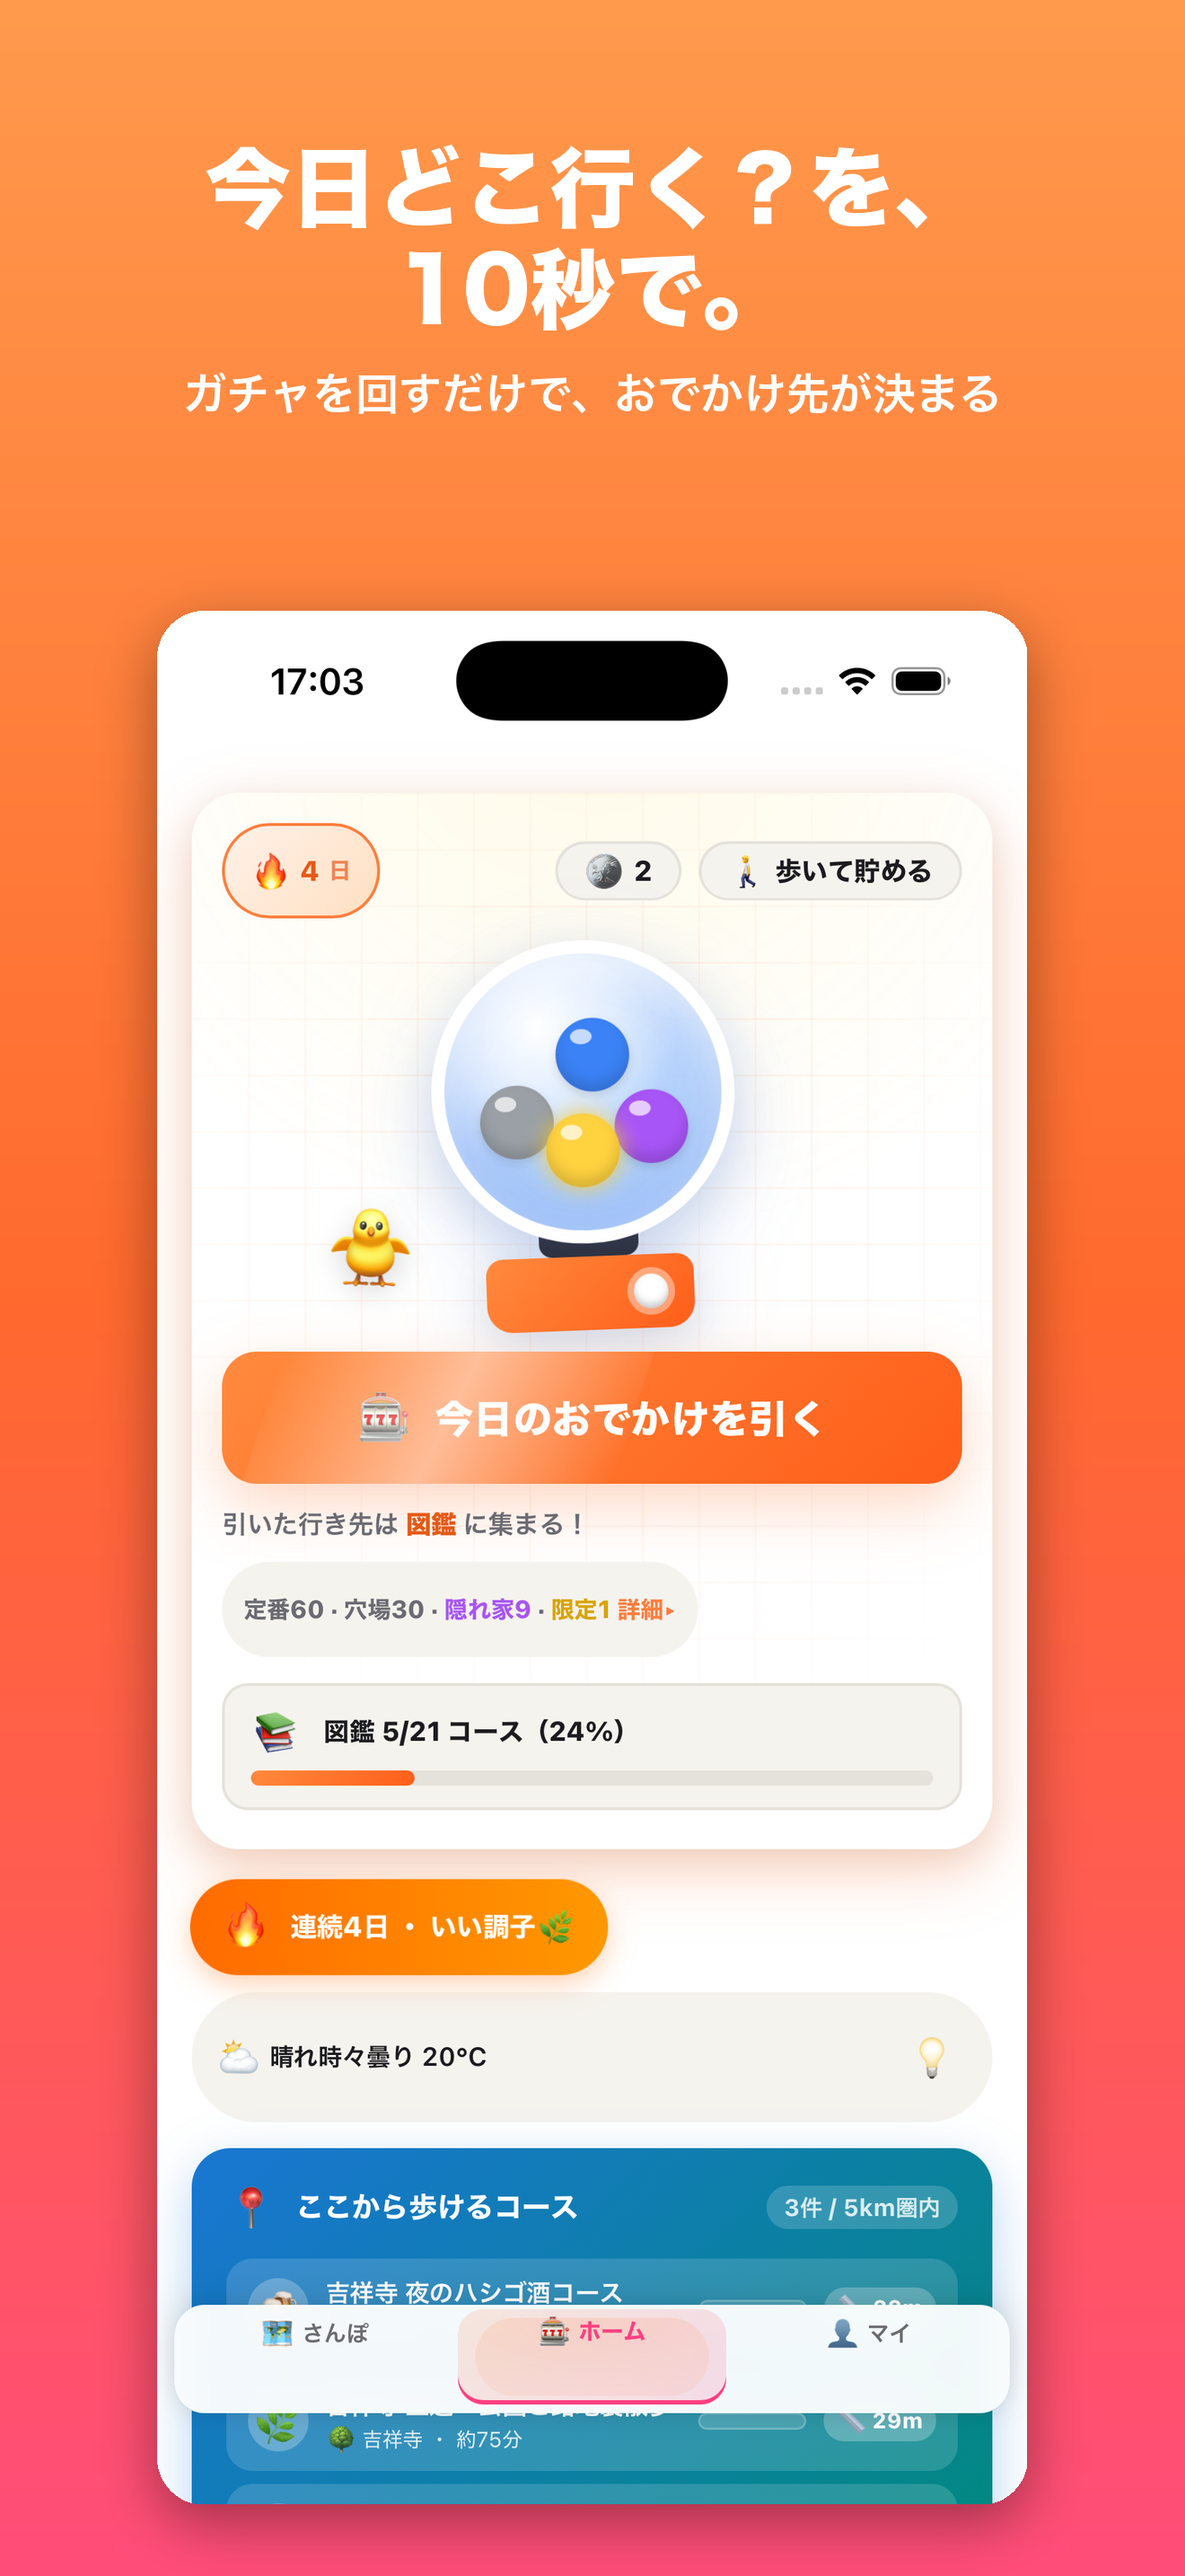
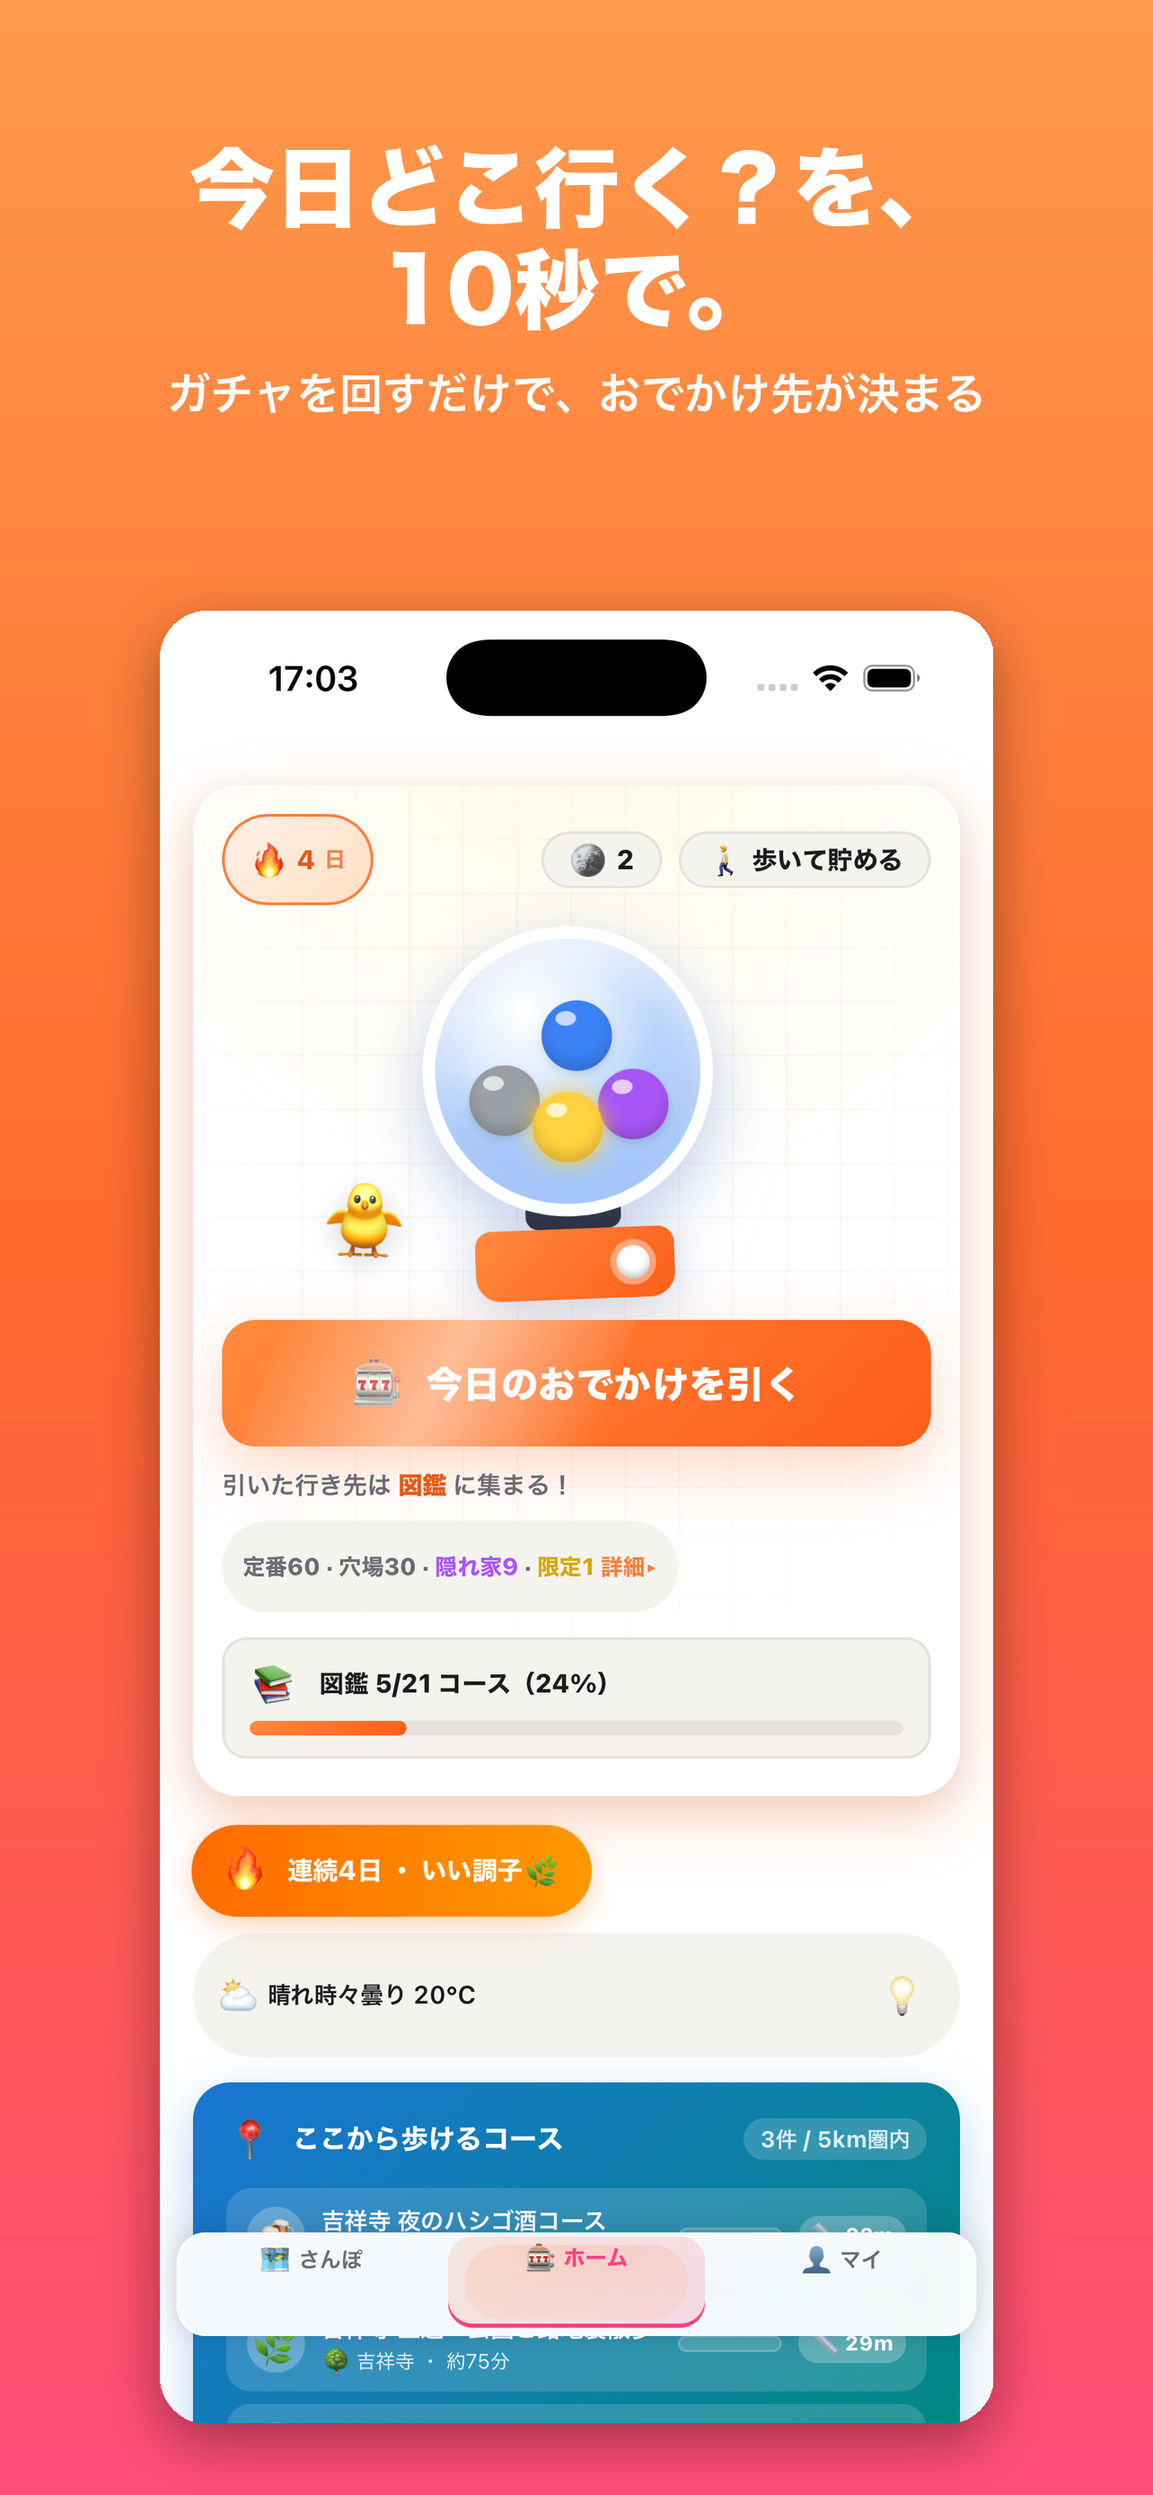
審査提出: 公開準備の仕上げ（プライバシーページ公開 + スクショASC API投入）
- privacy.html 新規 + Dockerfile に追加 → Cloud Run(yorimichi-map/restaurant-call-ai)
  にデプロイ済。https://yorimichi.in-dx.jp/privacy.html で公開(App Privacy URL)
- .gcloudignore 追加(デプロイ軽量化)
- upload_screenshots_asc.py: ASC API直アップロード(ブラウザfile upload制約を回避)
- スクショ6.5"(1284x2778)再生成しASC API経由で5枚アップロード
- 街歩きガチャ iOS 1.0 を App Store 審査に提出完了(App ID 6782575046・審査待ち)

diff --git a/privacy.html b/privacy.html
@@ -1,0 +1,67 @@
+<!DOCTYPE html>
+<html lang="ja">
+<head>
+<meta charset="UTF-8">
+<meta name="viewport" content="width=device-width, initial-scale=1">
+<meta name="robots" content="index,follow">
+<title>プライバシーポリシー｜街歩きガチャ</title>
+<style>
+  :root{ --brand:#ff7e3d; --ink:#1d2129; --muted:#6b7280; --line:#ececec; }
+  *{box-sizing:border-box}
+  body{margin:0;font-family:-apple-system,BlinkMacSystemFont,"Hiragino Kaku Gothic ProN","Hiragino Sans","Noto Sans JP",sans-serif;color:var(--ink);line-height:1.85;background:#fff;}
+  .wrap{max-width:720px;margin:0 auto;padding:32px 20px 80px;}
+  header{border-bottom:3px solid var(--brand);padding-bottom:14px;margin-bottom:8px;}
+  h1{font-size:24px;margin:0 0 4px;}
+  .app{color:var(--brand);font-weight:700;}
+  .upd{color:var(--muted);font-size:13px;margin:0 0 24px;}
+  h2{font-size:17px;margin:30px 0 8px;padding-left:10px;border-left:4px solid var(--brand);}
+  p{margin:8px 0;}
+  ul{margin:8px 0;padding-left:1.2em;}
+  li{margin:4px 0;}
+  a{color:var(--brand);}
+  .note{background:#fff7f2;border:1px solid #ffe0cc;border-radius:10px;padding:12px 14px;font-size:14px;color:#7a4a2a;}
+  footer{margin-top:48px;border-top:1px solid var(--line);padding-top:16px;color:var(--muted);font-size:13px;}
+</style>
+</head>
+<body>
+<div class="wrap">
+  <header>
+    <h1>プライバシーポリシー</h1>
+    <div class="app">街歩きガチャ</div>
+  </header>
+  <p class="upd">最終更新：2026年6月21日</p>
+
+  <p>インデックス（飲DX、以下「当社」）は、アプリ「街歩きガチャ」（以下「本アプリ」）における利用者情報の取り扱いについて、以下のとおり定めます。本アプリは<strong>アカウント登録不要</strong>で利用でき、<strong>広告目的の利用、第三者へのデータ販売、クロスアプリのトラッキングは一切行いません。</strong></p>
+
+  <h2>1. 端末内のみで保存する情報</h2>
+  <p>発見コース・完走コース・連続ログイン日数・ガチャ回数・コイン残高などは、お客様の端末内（localStorage）に保存されます。</p>
+
+  <h2>2. 当社サーバーへ送信する情報</h2>
+  <p>機能提供のため、当社サーバー（Google Cloud／日本リージョン）へ次を送信します。</p>
+  <ul>
+    <li><strong>位置情報（GPS座標）</strong>：スポット到着判定、地図・ルート表示、コース解説の生成</li>
+    <li><strong>写真</strong>：お客様が撮影・選択した写真を、AIによる説明文生成のために送信（任意操作時のみ）</li>
+    <li><strong>匿名の利用者ID（端末ごとのランダムなID）</strong>：データ同期・不具合解析。氏名等の個人情報とは結び付けません</li>
+    <li><strong>利用状況・診断情報</strong>：起動・主要操作・エラー内容（品質改善）</li>
+    <li><strong>投稿内容</strong>：スポット投稿・報告・コース評価など、任意で送信されたもの</li>
+  </ul>
+
+  <h2>3. 外部サービスへの送信</h2>
+  <p>地図・経路・住所表示のため、位置座標を OpenStreetMap（地図タイル）、OSRM（ルート計算）、Nominatim（住所検索）へ送信します。各社のプライバシーポリシーが適用されます。</p>
+
+  <h2>4. クッキー</h2>
+  <p>クッキーは使用しません（localStorage と Service Worker キャッシュのみ）。</p>
+
+  <h2>5. データの削除</h2>
+  <p>サーバー上のデータ削除をご希望の場合は下記までご連絡ください。アプリ内データは iOS の「設定 &gt; アプリを削除」または端末データのクリアで削除できます。</p>
+
+  <h2>6. お問い合わせ</h2>
+  <p>インデックス（飲DX）　メール：<a href="mailto:info@in-dx.jp">info@in-dx.jp</a></p>
+
+  <h2>7. 改定</h2>
+  <p>本ポリシーは必要に応じて改定します。重要な変更はアプリ内またはウェブサイトで告知します。</p>
+
+  <footer>© 2026 インデックス（飲DX）／ <a href="https://yorimichi.in-dx.jp">街歩きガチャ</a></footer>
+</div>
+</body>
+</html>

diff --git a/ios-app/docs/app-store/upload_screenshots_asc.py b/ios-app/docs/app-store/upload_screenshots_asc.py
@@ -1,0 +1,87 @@
+#!/usr/bin/env python3
+"""App Store Connect API でスクショを直接アップロード（ブラウザのファイルUL制約を回避）。
+実行: ~/projects/yorimichi-map/.venv-shots/bin/python upload_screenshots_asc.py
+"""
+import time, json, hashlib, os, sys, glob
+import jwt, requests
+
+KEY_ID = "XZ54R7ZQ99"
+ISSUER = "70cefba7-13f2-453a-907b-cb645079e635"
+P8 = os.path.expanduser("~/.appstoreconnect/private_keys/AuthKey_XZ54R7ZQ99.p8")
+APP_ID = "6782575046"
+DISPLAY = "APP_IPHONE_65"   # 1284x2778 / 1242x2688 = 6.5"
+SHOTS = sorted(glob.glob(os.path.expanduser("~/projects/yorimichi-map/ios-app/docs/app-store/screenshots/appstore-6.9/0*.png")))
+BASE = "https://api.appstoreconnect.apple.com"
+
+def token():
+    with open(P8) as f:
+        key = f.read()
+    payload = {"iss": ISSUER, "iat": int(time.time()), "exp": int(time.time()) + 1000, "aud": "appstoreconnect-v1"}
+    return jwt.encode(payload, key, algorithm="ES256", headers={"kid": KEY_ID, "typ": "JWT"})
+
+H = {"Authorization": f"Bearer {token()}", "Content-Type": "application/json"}
+
+def get(url, **params):
+    r = requests.get(url if url.startswith("http") else BASE + url, headers=H, params=params or None)
+    r.raise_for_status(); return r.json()
+
+def post(path, body):
+    r = requests.post(BASE + path, headers=H, data=json.dumps(body))
+    if r.status_code >= 300: print("POST FAIL", path, r.status_code, r.text); r.raise_for_status()
+    return r.json()
+
+def patch(path, body):
+    r = requests.patch(BASE + path, headers=H, data=json.dumps(body))
+    if r.status_code >= 300: print("PATCH FAIL", path, r.status_code, r.text); r.raise_for_status()
+    return r.json() if r.text else {}
+
+# 1. editable iOS version
+vers = get(f"/v1/apps/{APP_ID}/appStoreVersions", **{"filter[platform]": "IOS"})
+ver = vers["data"][0]
+ver_id = ver["id"]
+print("version", ver["attributes"]["versionString"], ver["attributes"]["appStoreState"], ver_id)
+
+# 2. localization ja
+locs = get(f"/v1/appStoreVersions/{ver_id}/appStoreVersionLocalizations")
+loc = next(l for l in locs["data"] if l["attributes"]["locale"].startswith("ja"))
+loc_id = loc["id"]; print("locale", loc["attributes"]["locale"], loc_id)
+
+# 3. screenshot set (find or create)
+sets = get(f"/v1/appStoreVersionLocalizations/{loc_id}/appScreenshotSets")
+sset = next((s for s in sets["data"] if s["attributes"]["screenshotDisplayType"] == DISPLAY), None)
+if sset:
+    set_id = sset["id"]; print("existing set", set_id)
+else:
+    body = {"data": {"type": "appScreenshotSets",
+        "attributes": {"screenshotDisplayType": DISPLAY},
+        "relationships": {"appStoreVersionLocalization": {"data": {"type": "appStoreVersionLocalizations", "id": loc_id}}}}}
+    set_id = post("/v1/appScreenshotSets", body)["data"]["id"]; print("created set", set_id)
+
+uploaded_ids = []
+for path in SHOTS:
+    data = open(path, "rb").read()
+    name = os.path.basename(path)
+    # reserve
+    body = {"data": {"type": "appScreenshots",
+        "attributes": {"fileSize": len(data), "fileName": name},
+        "relationships": {"appScreenshotSet": {"data": {"type": "appScreenshotSets", "id": set_id}}}}}
+    res = post("/v1/appScreenshots", body)["data"]
+    sid = res["id"]
+    ops = res["attributes"]["uploadOperations"]
+    for op in ops:
+        hdrs = {h["name"]: h["value"] for h in op["requestHeaders"]}
+        chunk = data[op["offset"]:op["offset"] + op["length"]]
+        pr = requests.request(op["method"], op["url"], headers=hdrs, data=chunk)
+        pr.raise_for_status()
+    # commit
+    md5 = hashlib.md5(data).hexdigest()
+    patch(f"/v1/appScreenshots/{sid}", {"data": {"type": "appScreenshots", "id": sid,
+        "attributes": {"uploaded": True, "sourceFileChecksum": md5}}})
+    uploaded_ids.append(sid)
+    print("uploaded", name, sid)
+
+# 4. set display order
+order = {"data": [{"type": "appScreenshots", "id": i} for i in uploaded_ids]}
+patch(f"/v1/appScreenshotSets/{set_id}/relationships/appScreenshots", order)
+print("ordered", len(uploaded_ids), "screenshots -> set", set_id)
+print("DONE")

diff --git a/ios-app/docs/app-store/make_appstore_screenshots.py b/ios-app/docs/app-store/make_appstore_screenshots.py
@@ -13,7 +13,7 @@ SRC = os.path.expanduser("~/projects/yorimichi-map/ios-app/docs/app-store/screen
 OUT = os.path.join(SRC, "appstore-6.9")
 os.makedirs(OUT, exist_ok=True)
 
-W, H = 1320, 2868
+W, H = 1284, 2778
 HEADLINE_FONT = "/System/Library/Fonts/ヒラギノ角ゴシック W8.ttc"
 SUB_FONT = "/System/Library/Fonts/ヒラギノ角ゴシック W6.ttc"
 
